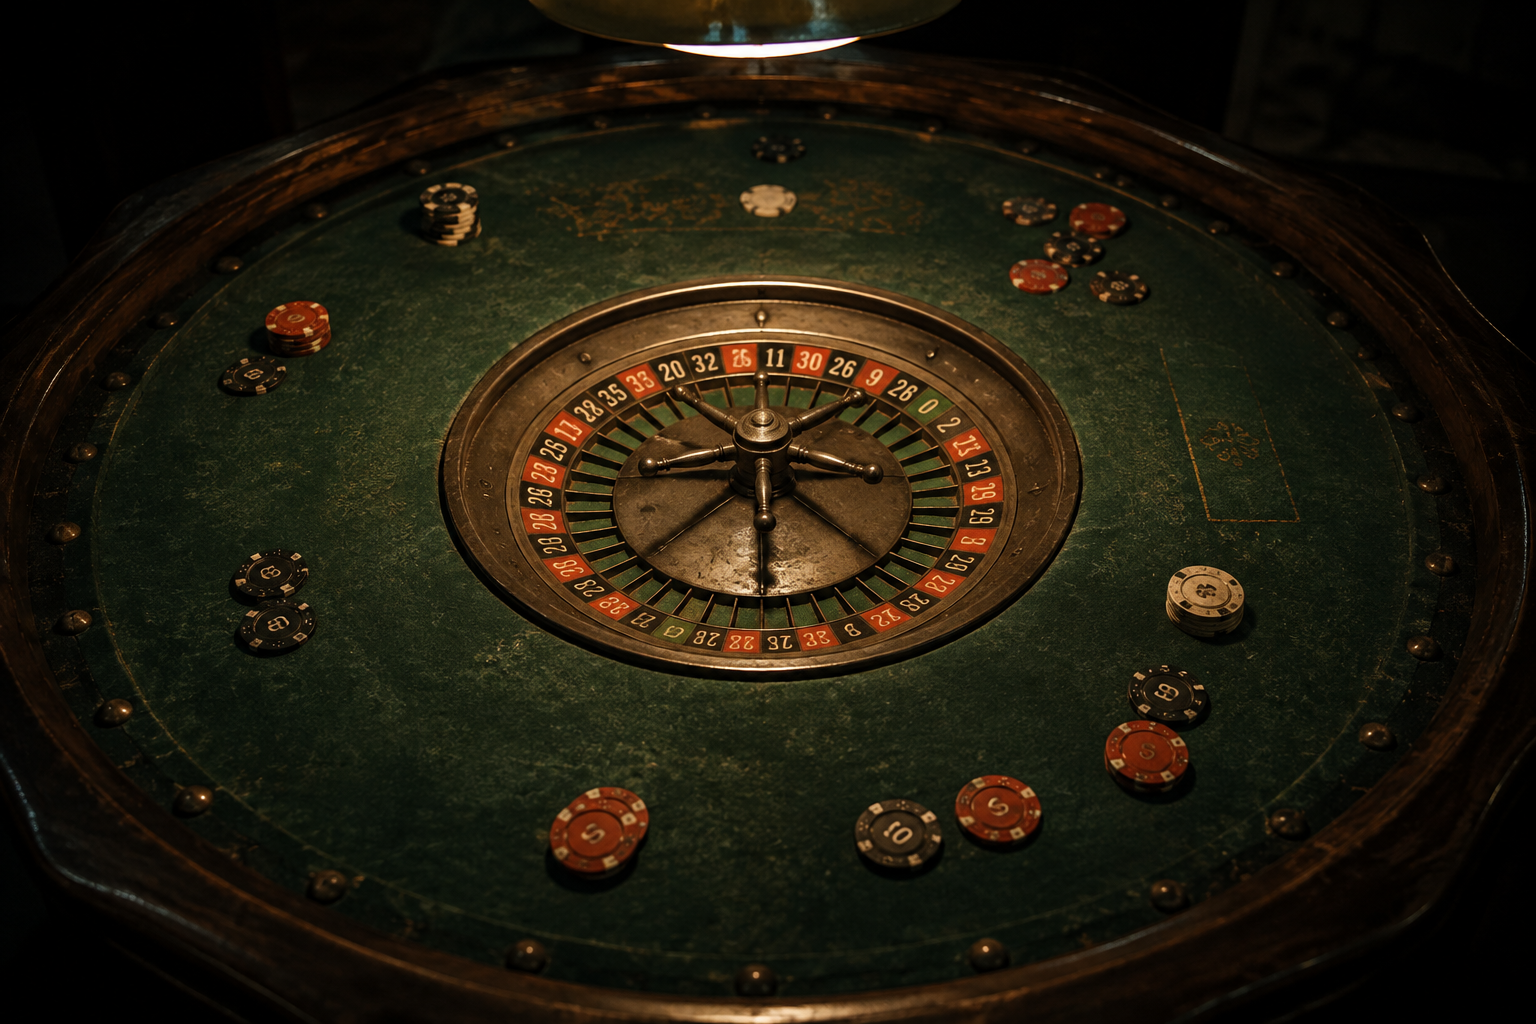
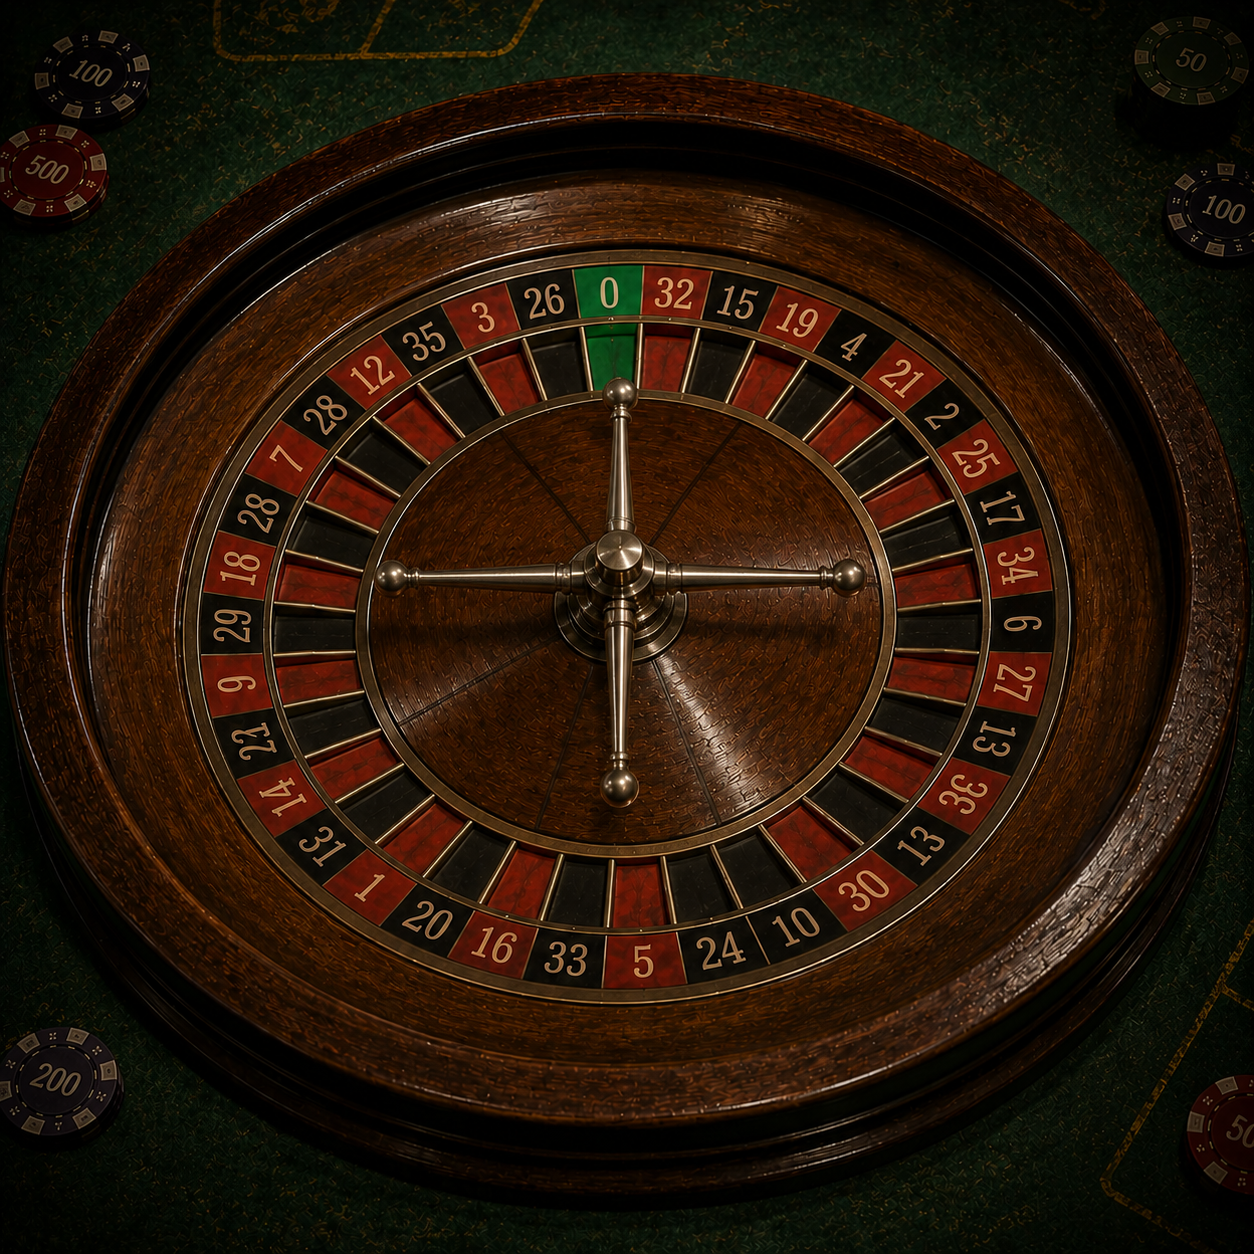
遊藝場兩張特寫換新版:推幣機改第一人稱視角(投幣口清楚可見),輪盤換 更居中、數字更清楚的版本。代幣掉落動畫的終點、輪盤球轉動的軌道都對著 新照片重新量過座標。兩張都加 ?v=2 破快取。

diff --git a/prototypes/game.html b/prototypes/game.html
@@ -2127,8 +2127,13 @@ schoolClassroomImg.src = '../assets/bg/school-classroom.png?v=2';
    色塊(見 agDrawIdle())。roulette/pusher 各一張,slot 是三張(摃龜/
    小賺/中大獎,三張轉輪視窗內容不同,見下面 agSlotTier 那則筆記)。 */
 const ARCADE_MACHINE_IMG = { roulette: new Image(), pusher: new Image() };
-ARCADE_MACHINE_IMG.roulette.src = '../assets/tex/arcade-roulette.png';
-ARCADE_MACHINE_IMG.pusher.src = '../assets/tex/arcade-pusher.png';
+/* ?v=2(2026-08-26)——kc 換了一張更居中、數字更清楚的輪盤特寫,同一個
+   檔名重存,記得往上加版號破快取。 */
+ARCADE_MACHINE_IMG.roulette.src = '../assets/tex/arcade-roulette.png?v=2';
+/* ?v=2(2026-08-26)——kc 把這張從外觀正面照換成第一人稱視角,同一個
+   檔名重存,瀏覽器快取會咬著舊版不放(這個坑這個專案踩過很多次了,見
+   shop-home.png/clerk-front.png 那幾則筆記),記得往上加版號。 */
+ARCADE_MACHINE_IMG.pusher.src = '../assets/tex/arcade-pusher.png?v=2';
 /* 吃角子老虎的三張結果照(2026-08-26,kc 選的「B」方案——單張照片沒辦法
    演出轉輪跳動,生 2~3 張同一台機器、只有轉輪視窗內容不同的照片,轉動
    時在這幾張之間切換,停在跟真正擲骰結果對應的那張上)。`agSlotTier`
@@ -3762,14 +3767,16 @@ function agDrawSpin(){
     agCtx.fillStyle = '#f2e9d0';
     agCtx.beginPath(); agCtx.arc(bx, by, 8, 0, Math.PI*2); agCtx.fill();
   } else if(A.kind === 'pusher-drop'){
-    /* 一枚代幣從畫面上緣掉進投幣口(2026-08-26,kc:「我想要有投錢下去推
-       的感覺」)——沒有真的投幣口座標可以量(還在等 kc 生第一人稱視角的
-       照片),先抓畫布正上方中間一路落到畫面偏上 1/3 處,純粹給「有東西
-       掉進去了」的感覺,不用等真的照片再回來調這幾個數字。 */
+    /* 一枚代幣掉進投幣口(2026-08-26,kc:「我想要有投錢下去推的感覺」)
+       ——第一人稱視角照片生出來後這輪重新對真的投幣口位置量過(原本是
+       瞎猜的座標)。`arcade-pusher.png`(1448×1086)等比縮放置中貼進
+       640×420 畫布,scale≈.387、offsetX≈40;投幣口(畫面右下角「代幣
+       入口」那塊)肉眼在原圖量大約 x:1014,y:977,換算成畫布座標
+       ≈(432,378)。代幣從畫面右上方一路滑進投幣口,終點對齊那個位置。 */
     const ease = Math.min(1, A.t/A.dur);
-    const y = 10 + (150-10)*ease;
+    const x = 520 + (432-520)*ease, y = 210 + (378-210)*ease;
     agCtx.fillStyle = '#e8c85a';
-    agCtx.beginPath(); agCtx.arc(agCanvas.width/2, y, 9, 0, Math.PI*2); agCtx.fill();
+    agCtx.beginPath(); agCtx.arc(x, y, 9, 0, Math.PI*2); agCtx.fill();
     agCtx.strokeStyle = '#8a6b28'; agCtx.lineWidth = 1.5; agCtx.stroke();
   } else if(A.kind === 'pusher-payout'){
     /* 中獎的代幣滑落(2026-08-26,同一輪)——五枚代幣分別延遲一點時間

diff --git a/prototypes/lib/scene-arcade.js b/prototypes/lib/scene-arcade.js
@@ -133,14 +133,16 @@
   /* 這三個矩形/圓心是 renderCloseup() 底下三段畫法算出來的同一組數字,
      另外匯出給 game.html 的 agDrawSpin() 用——轉輪閃爍/球轉動的動畫要疊在
      跟靜態色塊「同一個位置」上,不能自己另外猜一組座標,兩邊會對不齊。
-     CLOSEUP_SLOT_SCREEN 還是對灰模色塊算的(slot 還在等 kc 生那三張
-     不同轉輪結果的照片,見 DESIGN_NOTES)。CLOSEUP_ROULETTE_WHEEL
-     2026-08-26 這輪改成對真的 arcade-roulette.png 量的(1536×1024,
-     game.html 的 agDrawIdle() 用等比縮放置中貼進 640×420 畫布,scale≈
-     .41、offsetX≈5——輪盤本體肉眼量原圖大約 cx:777,cy:577,r:305,換算
-     成畫布座標後的結果)。 */
+     CLOSEUP_SLOT_SCREEN 是對灰模色塊算的,slot 這輪已經改用真照片切換
+     (見 game.html 的 agDrawSpin()/ARCADE_SLOT_IMG),這組數字不再被用到,
+     留著只是還沒清。CLOSEUP_ROULETTE_WHEEL 2026-08-26 第二輪換了張更
+     居中的輪盤特寫(kc:「換了一張更居中、數字更清楚的」,1254×1254 正方形,
+     跟第一版 1536×1024 的構圖不一樣,座標重新量過)——game.html 的
+     agDrawIdle() 用等比縮放置中貼進 640×420 畫布,scale≈.335、
+     offsetX≈110;輪盤本體肉眼量原圖大約 cx:627,cy:627,r:400(數字圈
+     那一圈,不含最外層木框),換算成畫布座標後的結果。 */
   const CLOSEUP_SLOT_SCREEN = { x:218, y:66, w:204, h:140 };
-  const CLOSEUP_ROULETTE_WHEEL = { cx:324, cy:237, r:125 };
+  const CLOSEUP_ROULETTE_WHEEL = { cx:320, cy:210, r:134 };
   const CLOSEUP_PUSHER_GLASS = { x:180, y:52, w:280, h:170 };
   function renderCloseup(g, kind) {
     const { px, alp } = tools(g);

diff --git a/docs/DESIGN_NOTES.md b/docs/DESIGN_NOTES.md
@@ -3904,3 +3904,19 @@ kc 生完三張轉輪結果照(摃龜/小賺/中大獎,方案 B 那組),接法:
 的同一個環境限制,不是程式邏輯的問題)——邏輯讀過、`node --check` 過,
 slot 那組三張照片切換是有截圖核對過的,pusher 這兩段新演出交給 kc
 自己在瀏覽器裡試。
+
+### ✅ 推幣機第一人稱照片 + 輪盤換更居中的版本(2026-08-26,第六輪)
+
+- **推幣機**:kc 重生成第一人稱視角(往下往前看進玻璃罩,投幣口在
+  畫面右下角),`?v=2` 破快取。順手把 `pusher-drop` 那顆代幣掉落動畫的
+  終點座標對著真照片重新量過(原本是瞎猜的置中偏上位置)——投幣口
+  (「代幣入口」那塊)原圖肉眼量大約 x:1014,y:977(圖 1448×1086),
+  換算成畫布座標約 (432,378),代幣現在從畫面右上方滑向這個點,不是
+  直接從正上方掉下來。
+- **輪盤**:kc 換了一張更居中、數字更清楚的特寫(1254×1254 正方形,
+  跟第一版 1536×1024 的構圖不一樣),同樣 `?v=2`。`CLOSEUP_ROULETTE_WHEEL`
+  跟著重新量(cx:320,cy:210,r:134,取代第一版的 324/237/125)。
+
+瀏覽器裡截圖核對過兩張新圖都正確顯示、破快取生效,`node --check` 過
+兩個檔案語法。推幣機的代幣掉落動畫新座標沒有等演出播完驗證(同上,
+環境限制)。
